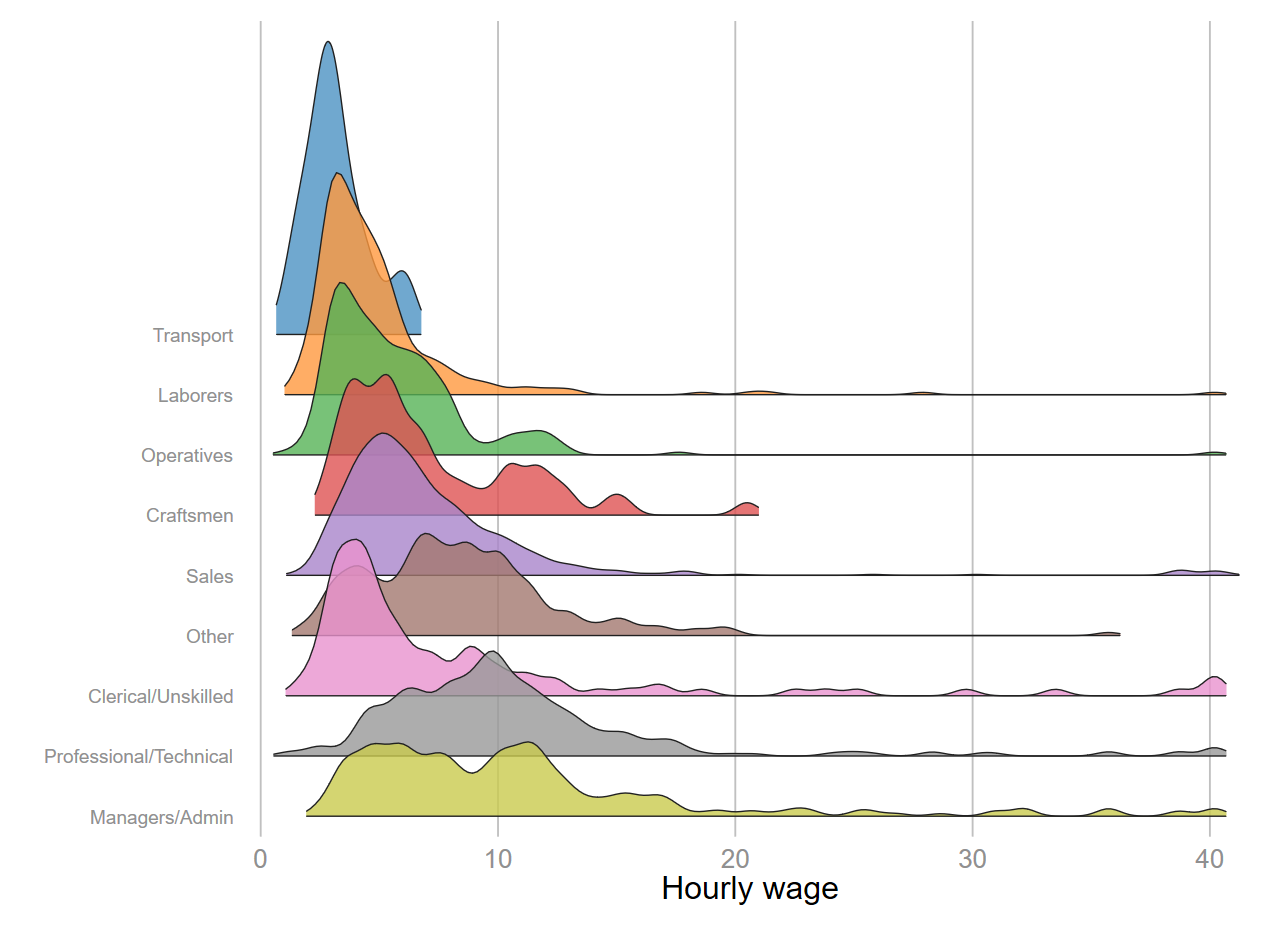
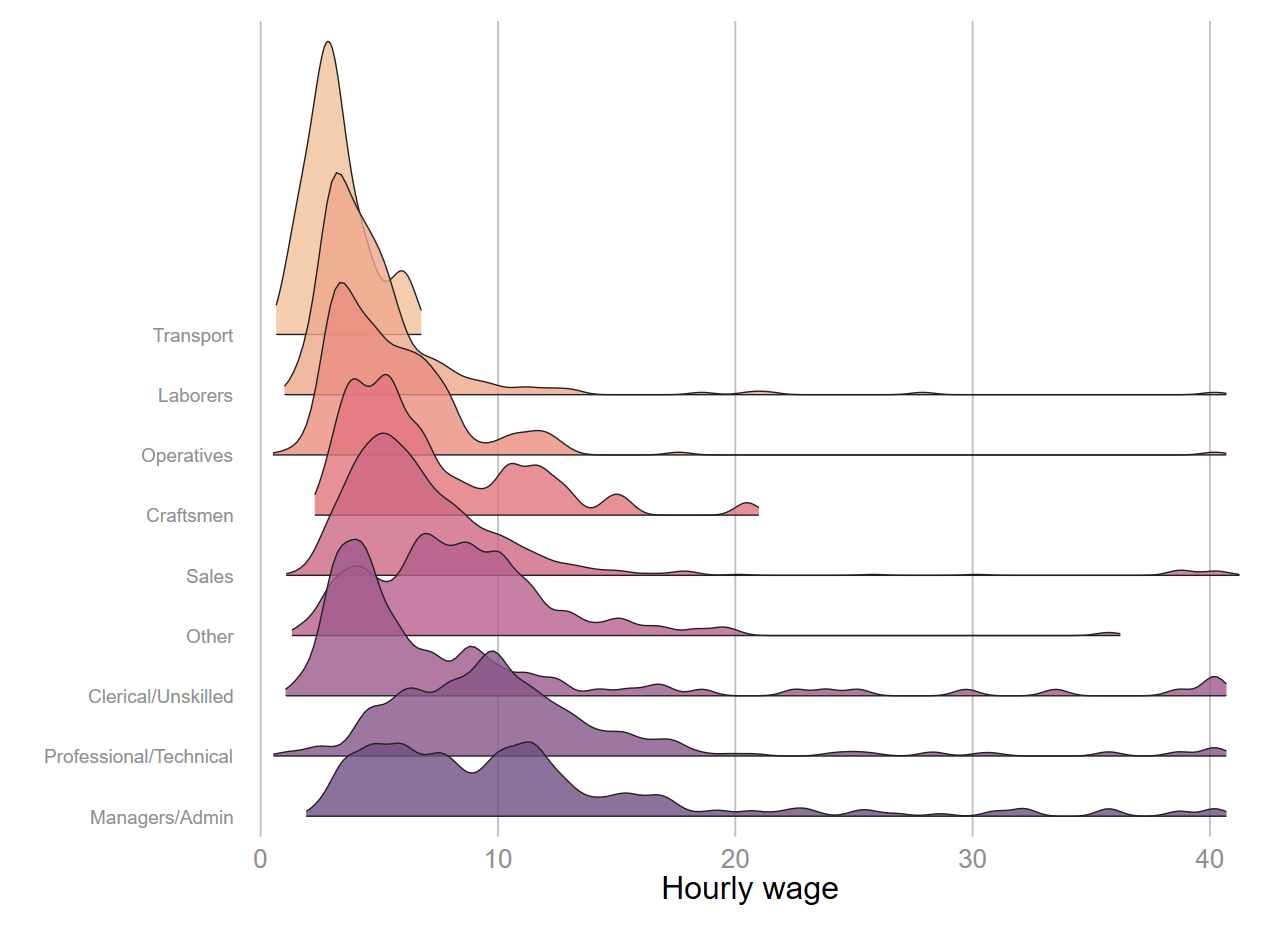
maj

diff --git a/docs/formation/formation42.html b/docs/formation/formation42.html
@@ -142,15 +142,15 @@ code span.wa { color: #60a0b0; font-weight: bold; font-style: italic; } /* Warni
           <div class="collapse navbar-collapse" id="navbarCollapse">
             <ul class="navbar-nav navbar-nav-scroll me-auto">
   <li class="nav-item">
-    <a class="nav-link" href="https://mthevenin.github.io/stata_fr/" rel="" target="">
+    <a class="nav-link" href="https://mthevenin.github.io/stata_fr/index.html" rel="" target="">
  <span class="menu-text">Stata Ined</span></a>
   </li>  
   <li class="nav-item">
-    <a class="nav-link" href="https://mthevenin.github.io/stata_graphiques/" rel="" target="">
+    <a class="nav-link" href="https://mthevenin.github.io/stata_graphiques/index.html" rel="" target="">
  <span class="menu-text">Graphiques</span></a>
   </li>  
   <li class="nav-item">
-    <a class="nav-link" href="https://mthevenin.github.io/stata_programmation" rel="" target="">
+    <a class="nav-link" href="https://mthevenin.github.io/stata_programmation/index.html" rel="" target="">
  <span class="menu-text">Programmation</span></a>
   </li>  
 </ul>
@@ -336,6 +336,7 @@ code span.wa { color: #60a0b0; font-weight: bold; font-style: italic; } /* Warni
   <ul class="collapse">
   <li><a href="#histogramme" id="toc-histogramme" class="nav-link" data-scroll-target="#histogramme"><span class="toc-section-number">1.1</span>  Histogramme</a></li>
   <li><a href="#densités" id="toc-densités" class="nav-link" data-scroll-target="#densités"><span class="toc-section-number">1.2</span>  Densités</a></li>
+  <li><a href="#graphique-synthétique-boxplot-et-violinplot" id="toc-graphique-synthétique-boxplot-et-violinplot" class="nav-link" data-scroll-target="#graphique-synthétique-boxplot-et-violinplot"><span class="toc-section-number">1.3</span>  Graphique synthétique: boxplot et violinplot</a></li>
   </ul></li>
   </ul>
 </nav>
@@ -427,13 +428,13 @@ code span.wa { color: #60a0b0; font-weight: bold; font-style: italic; } /* Warni
 <div class="quarto-layout-row quarto-layout-valign-bottom">
 <div class="quarto-figure quarto-figure-center" style="flex-basis: 50.0%;justify-content: center;">
 <figure class="figure">
-<p><a href="imgp4/g6.png" class="lightbox" data-gallery="quarto-lightbox-gallery-1" title="Histogramme simple"><img src="imgp4/g6.png" class="img-fluid figure-img"></a></p>
+<p><a href="imgp4/g6.png" class="lightbox" title="Histogramme simple" data-gallery="quarto-lightbox-gallery-1"><img src="imgp4/g6.png" class="img-fluid figure-img"></a></p>
 <p></p><figcaption class="figure-caption">Histogramme simple</figcaption><p></p>
 </figure>
 </div>
 <div class="quarto-figure quarto-figure-center" style="flex-basis: 50.0%;justify-content: center;">
 <figure class="figure">
-<p><a href="imgp4/g7.png" class="lightbox" data-gallery="quarto-lightbox-gallery-2" title="Empilement Histogrammes: not good"><img src="imgp4/g7.png" class="img-fluid figure-img"></a></p>
+<p><a href="imgp4/g7.png" class="lightbox" title="Empilement Histogrammes: not good" data-gallery="quarto-lightbox-gallery-2"><img src="imgp4/g7.png" class="img-fluid figure-img"></a></p>
 <p></p><figcaption class="figure-caption">Empilement Histogrammes: not good</figcaption><p></p>
 </figure>
 </div>
@@ -441,13 +442,13 @@ code span.wa { color: #60a0b0; font-weight: bold; font-style: italic; } /* Warni
 <div class="quarto-layout-row quarto-layout-valign-bottom">
 <div class="quarto-figure quarto-figure-center" style="flex-basis: 50.0%;justify-content: center;">
 <figure class="figure">
-<p><a href="imgp4/g8.png" class="lightbox" data-gallery="quarto-lightbox-gallery-3" title="Empilement Histogrammes: not good"><img src="imgp4/g8.png" class="img-fluid figure-img"></a></p>
+<p><a href="imgp4/g8.png" class="lightbox" title="Empilement Histogrammes: not good" data-gallery="quarto-lightbox-gallery-3"><img src="imgp4/g8.png" class="img-fluid figure-img"></a></p>
 <p></p><figcaption class="figure-caption">Empilement Histogrammes: not good</figcaption><p></p>
 </figure>
 </div>
 <div class="quarto-figure quarto-figure-center" style="flex-basis: 50.0%;justify-content: center;">
 <figure class="figure">
-<p><a href="imgp4/g9.png" class="lightbox" data-gallery="quarto-lightbox-gallery-4" title="Facettes Histogrammes: good"><img src="imgp4/g9.png" class="img-fluid figure-img"></a></p>
+<p><a href="imgp4/g9.png" class="lightbox" title="Facettes Histogrammes: good" data-gallery="quarto-lightbox-gallery-4"><img src="imgp4/g9.png" class="img-fluid figure-img"></a></p>
 <p></p><figcaption class="figure-caption">Facettes Histogrammes: good</figcaption><p></p>
 </figure>
 </div>
@@ -526,19 +527,19 @@ Options <code>by</code>: à savoir
 <div class="quarto-layout-row quarto-layout-valign-bottom">
 <div class="quarto-figure quarto-figure-center" style="flex-basis: 33.3%;justify-content: center;">
 <figure class="figure">
-<p><a href="imgp4/g10.png" class="lightbox" data-gallery="quarto-lightbox-gallery-5" title="Avec kdensity"><img src="imgp4/g10.png" class="img-fluid figure-img"></a></p>
+<p><a href="imgp4/g10.png" class="lightbox" title="Avec kdensity" data-gallery="quarto-lightbox-gallery-5"><img src="imgp4/g10.png" class="img-fluid figure-img"></a></p>
 <p></p><figcaption class="figure-caption">Avec <strong><code>kdensity</code></strong></figcaption><p></p>
 </figure>
 </div>
 <div class="quarto-figure quarto-figure-center" style="flex-basis: 33.3%;justify-content: center;">
 <figure class="figure">
-<p><a href="imgp4/g11.png" class="lightbox" data-gallery="quarto-lightbox-gallery-6" title="Avec violinplot"><img src="imgp4/g11.png" class="img-fluid figure-img"></a></p>
+<p><a href="imgp4/g11.png" class="lightbox" title="Avec violinplot" data-gallery="quarto-lightbox-gallery-6"><img src="imgp4/g11.png" class="img-fluid figure-img"></a></p>
 <p></p><figcaption class="figure-caption">Avec <strong><code>violinplot</code></strong></figcaption><p></p>
 </figure>
 </div>
 <div class="quarto-figure quarto-figure-center" style="flex-basis: 33.3%;justify-content: center;">
 <figure class="figure">
-<p><a href="imgp4/g12.png" class="lightbox" data-gallery="quarto-lightbox-gallery-7" title="violinplot: densité en mirroir"><img src="imgp4/g12.png" class="img-fluid figure-img"></a></p>
+<p><a href="imgp4/g12.png" class="lightbox" title="violinplot: densité en mirroir" data-gallery="quarto-lightbox-gallery-7"><img src="imgp4/g12.png" class="img-fluid figure-img"></a></p>
 <p></p><figcaption class="figure-caption"><strong><code>violinplot</code></strong>: densité en mirroir</figcaption><p></p>
 </figure>
 </div>
@@ -577,13 +578,13 @@ Options <code>by</code>: à savoir
 <div class="quarto-layout-row quarto-layout-valign-bottom">
 <div class="quarto-figure quarto-figure-center" style="flex-basis: 50.0%;justify-content: center;">
 <figure class="figure">
-<p><a href="imgp4/g13.png" class="lightbox" data-gallery="quarto-lightbox-gallery-8" title="violinplot: comparaison aire"><img src="imgp4/g13.png" class="img-fluid figure-img"></a></p>
+<p><a href="imgp4/g13.png" class="lightbox" title="violinplot: comparaison aire" data-gallery="quarto-lightbox-gallery-8"><img src="imgp4/g13.png" class="img-fluid figure-img"></a></p>
 <p></p><figcaption class="figure-caption"><strong><code>violinplot</code></strong>: comparaison aire</figcaption><p></p>
 </figure>
 </div>
 <div class="quarto-figure quarto-figure-center" style="flex-basis: 50.0%;justify-content: center;">
 <figure class="figure">
-<p><a href="imgp4/g14.png" class="lightbox" data-gallery="quarto-lightbox-gallery-9" title="violinplot: comparaison courbe"><img src="imgp4/g14.png" class="img-fluid figure-img"></a></p>
+<p><a href="imgp4/g14.png" class="lightbox" title="violinplot: comparaison courbe" data-gallery="quarto-lightbox-gallery-9"><img src="imgp4/g14.png" class="img-fluid figure-img"></a></p>
 <p></p><figcaption class="figure-caption"><strong><code>violinplot</code></strong>: comparaison courbe</figcaption><p></p>
 </figure>
 </div>
@@ -591,13 +592,13 @@ Options <code>by</code>: à savoir
 <div class="quarto-layout-row quarto-layout-valign-bottom">
 <div class="quarto-figure quarto-figure-center" style="flex-basis: 50.0%;justify-content: center;">
 <figure class="figure">
-<p><a href="imgp4/g15.png" class="lightbox" data-gallery="quarto-lightbox-gallery-10" title="violinplot: comparaison split"><img src="imgp4/g15.png" class="img-fluid figure-img"></a></p>
+<p><a href="imgp4/g15.png" class="lightbox" title="violinplot: comparaison split" data-gallery="quarto-lightbox-gallery-10"><img src="imgp4/g15.png" class="img-fluid figure-img"></a></p>
 <p></p><figcaption class="figure-caption"><strong><code>violinplot</code></strong>: comparaison split</figcaption><p></p>
 </figure>
 </div>
 <div class="quarto-figure quarto-figure-center" style="flex-basis: 50.0%;justify-content: center;">
 <figure class="figure">
-<p><a href="imgp4/g16.png" class="lightbox" data-gallery="quarto-lightbox-gallery-11" title="violinplot: comparaison mirroir overlay"><img src="imgp4/g16.png" class="img-fluid figure-img"></a></p>
+<p><a href="imgp4/g16.png" class="lightbox" title="violinplot: comparaison mirroir overlay" data-gallery="quarto-lightbox-gallery-11"><img src="imgp4/g16.png" class="img-fluid figure-img"></a></p>
 <p></p><figcaption class="figure-caption"><strong><code>violinplot</code></strong>: comparaison mirroir overlay</figcaption><p></p>
 </figure>
 </div>
@@ -633,26 +634,29 @@ Options <code>by</code>: à savoir
 <span id="cb7-5"><a href="#cb7-5" aria-hidden="true" tabindex="-1"></a>colors(tableau)  pdf(ll(0)) <span class="fu">fill</span> n(99)</span>
 <span id="cb7-6"><a href="#cb7-6" aria-hidden="true" tabindex="-1"></a></span>
 <span id="cb7-7"><a href="#cb7-7" aria-hidden="true" tabindex="-1"></a>* gridge</span>
-<span id="cb7-8"><a href="#cb7-8" aria-hidden="true" tabindex="-1"></a>gridge wage, <span class="bn">over</span>(occupation) sortrev(<span class="kw">mean</span>) <span class="kw">range</span>(0 50) <span class="kw">palette</span>(tableau) bw(.5)</span></code><button title="Copy to Clipboard" class="code-copy-button"><i class="bi"></i></button></pre></div>
+<span id="cb7-8"><a href="#cb7-8" aria-hidden="true" tabindex="-1"></a>gridge wage, <span class="bn">over</span>(occupation) sortrev(<span class="kw">mean</span>) <span class="kw">range</span>(0 50) <span class="kw">palette</span>(flare) bw(.5)</span></code><button title="Copy to Clipboard" class="code-copy-button"><i class="bi"></i></button></pre></div>
 </details>
 </div>
 <div class="quarto-layout-panel">
 <div class="quarto-layout-row quarto-layout-valign-bottom">
 <div class="quarto-figure quarto-figure-center" style="flex-basis: 50.0%;justify-content: center;">
 <figure class="figure">
-<p><a href="imgp4/g17.png" class="lightbox" data-gallery="quarto-lightbox-gallery-12" title="axe discret avec violinplot"><img src="imgp4/g17.png" class="img-fluid figure-img"></a></p>
+<p><a href="imgp4/g17.png" class="lightbox" title="axe discret avec violinplot" data-gallery="quarto-lightbox-gallery-12"><img src="imgp4/g17.png" class="img-fluid figure-img"></a></p>
 <p></p><figcaption class="figure-caption"><strong><code>axe discret avec violinplot</code></strong></figcaption><p></p>
 </figure>
 </div>
 <div class="quarto-figure quarto-figure-center" style="flex-basis: 50.0%;justify-content: center;">
 <figure class="figure">
-<p><a href="imgp4/g18.png" class="lightbox" data-gallery="quarto-lightbox-gallery-13" title="Lignes de ridge avec gridge"><img src="imgp4/g18.png" class="img-fluid figure-img"></a></p>
+<p><a href="imgp4/g18.png" class="lightbox" title="Lignes de ridge avec gridge" data-gallery="quarto-lightbox-gallery-13"><img src="imgp4/g18.png" class="img-fluid figure-img"></a></p>
 <p></p><figcaption class="figure-caption"><strong><code>Lignes de ridge avec gridge</code></strong></figcaption><p></p>
 </figure>
 </div>
 </div>
 </div>
-<p>[13-03-2023]</p>
+</section>
+<section id="graphique-synthétique-boxplot-et-violinplot" class="level2" data-number="1.3">
+<h2 data-number="1.3" class="anchored" data-anchor-id="graphique-synthétique-boxplot-et-violinplot"><span class="header-section-number">1.3</span> Graphique synthétique: boxplot et violinplot</h2>
+<p>[14-03-2023]</p>
 
 
 <!-- -->
@@ -1166,7 +1170,7 @@ window.document.addEventListener("DOMContentLoaded", function (event) {
 <span id="cb8-221"><a href="#cb8-221" aria-hidden="true" tabindex="-1"></a><span class="in">colors(tableau)  pdf(ll(0)) fill n(99)</span></span>
 <span id="cb8-222"><a href="#cb8-222" aria-hidden="true" tabindex="-1"></a></span>
 <span id="cb8-223"><a href="#cb8-223" aria-hidden="true" tabindex="-1"></a><span class="in">* gridge</span></span>
-<span id="cb8-224"><a href="#cb8-224" aria-hidden="true" tabindex="-1"></a><span class="in">gridge wage, over(occupation) sortrev(mean) range(0 50) palette(tableau) bw(.5)</span></span>
+<span id="cb8-224"><a href="#cb8-224" aria-hidden="true" tabindex="-1"></a><span class="in">gridge wage, over(occupation) sortrev(mean) range(0 50) palette(flare) bw(.5)</span></span>
 <span id="cb8-225"><a href="#cb8-225" aria-hidden="true" tabindex="-1"></a><span class="in">```</span></span>
 <span id="cb8-226"><a href="#cb8-226" aria-hidden="true" tabindex="-1"></a></span>
 <span id="cb8-227"><a href="#cb8-227" aria-hidden="true" tabindex="-1"></a></span>
@@ -1178,14 +1182,17 @@ window.document.addEventListener("DOMContentLoaded", function (event) {
 <span id="cb8-233"><a href="#cb8-233" aria-hidden="true" tabindex="-1"></a></span>
 <span id="cb8-234"><a href="#cb8-234" aria-hidden="true" tabindex="-1"></a>:::</span>
 <span id="cb8-235"><a href="#cb8-235" aria-hidden="true" tabindex="-1"></a></span>
-<span id="cb8-236"><a href="#cb8-236" aria-hidden="true" tabindex="-1"></a></span>
-<span id="cb8-237"><a href="#cb8-237" aria-hidden="true" tabindex="-1"></a><span class="co">[</span><span class="ot">13-03-2023</span><span class="co">]</span></span>
+<span id="cb8-236"><a href="#cb8-236" aria-hidden="true" tabindex="-1"></a><span class="fu">## Graphique synthétique: boxplot et violinplot</span></span>
+<span id="cb8-237"><a href="#cb8-237" aria-hidden="true" tabindex="-1"></a></span>
 <span id="cb8-238"><a href="#cb8-238" aria-hidden="true" tabindex="-1"></a></span>
 <span id="cb8-239"><a href="#cb8-239" aria-hidden="true" tabindex="-1"></a></span>
-<span id="cb8-240"><a href="#cb8-240" aria-hidden="true" tabindex="-1"></a></span>
-<span id="cb8-241"><a href="#cb8-241" aria-hidden="true" tabindex="-1"></a> </span>
+<span id="cb8-240"><a href="#cb8-240" aria-hidden="true" tabindex="-1"></a><span class="co">[</span><span class="ot">14-03-2023</span><span class="co">]</span></span>
+<span id="cb8-241"><a href="#cb8-241" aria-hidden="true" tabindex="-1"></a></span>
 <span id="cb8-242"><a href="#cb8-242" aria-hidden="true" tabindex="-1"></a></span>
-<span id="cb8-243"><a href="#cb8-243" aria-hidden="true" tabindex="-1"></a></span></code><button title="Copy to Clipboard" class="code-copy-button"><i class="bi"></i></button></pre></div>
+<span id="cb8-243"><a href="#cb8-243" aria-hidden="true" tabindex="-1"></a></span>
+<span id="cb8-244"><a href="#cb8-244" aria-hidden="true" tabindex="-1"></a> </span>
+<span id="cb8-245"><a href="#cb8-245" aria-hidden="true" tabindex="-1"></a></span>
+<span id="cb8-246"><a href="#cb8-246" aria-hidden="true" tabindex="-1"></a></span></code><button title="Copy to Clipboard" class="code-copy-button"><i class="bi"></i></button></pre></div>
 </div></div></div></div></div>
 </div> <!-- /content -->
 <footer class="footer">
@@ -1193,7 +1200,7 @@ window.document.addEventListener("DOMContentLoaded", function (event) {
       <div class="nav-footer-center">Marc Thévenin / Ined-Sms / Août 2022-</div>
   </div>
 </footer>
-<script>var lightboxQuarto = GLightbox({"selector":".lightbox","descPosition":"bottom","closeEffect":"zoom","loop":true,"openEffect":"zoom"});</script>
+<script>var lightboxQuarto = GLightbox({"openEffect":"zoom","closeEffect":"zoom","selector":".lightbox","loop":true,"descPosition":"bottom"});</script>
 
 
 

diff --git a/docs/Stata.html b/docs/Stata.html
@@ -171,15 +171,15 @@ code span.wa { color: #60a0b0; font-weight: bold; font-style: italic; } /* Warni
           <div class="collapse navbar-collapse" id="navbarCollapse">
             <ul class="navbar-nav navbar-nav-scroll me-auto">
   <li class="nav-item">
-    <a class="nav-link" href="https://mthevenin.github.io/stata_fr/" rel="" target="">
+    <a class="nav-link" href="https://mthevenin.github.io/stata_fr/index.html" rel="" target="">
  <span class="menu-text">Stata Ined</span></a>
   </li>  
   <li class="nav-item">
-    <a class="nav-link" href="https://mthevenin.github.io/stata_graphiques/" rel="" target="">
+    <a class="nav-link" href="https://mthevenin.github.io/stata_graphiques/index.html" rel="" target="">
  <span class="menu-text">Graphiques</span></a>
   </li>  
   <li class="nav-item">
-    <a class="nav-link" href="https://mthevenin.github.io/stata_programmation" rel="" target="">
+    <a class="nav-link" href="https://mthevenin.github.io/stata_programmation/index.html" rel="" target="">
  <span class="menu-text">Programmation</span></a>
   </li>  
 </ul>
